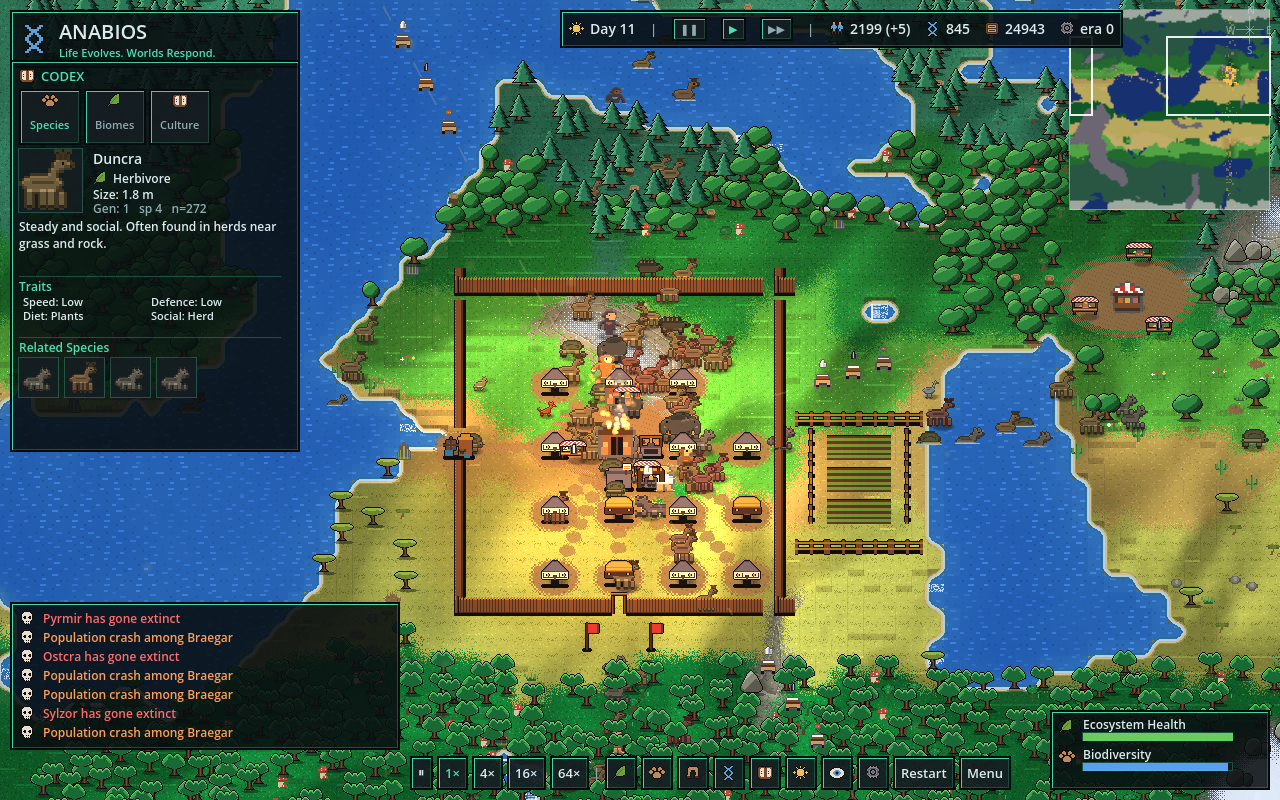
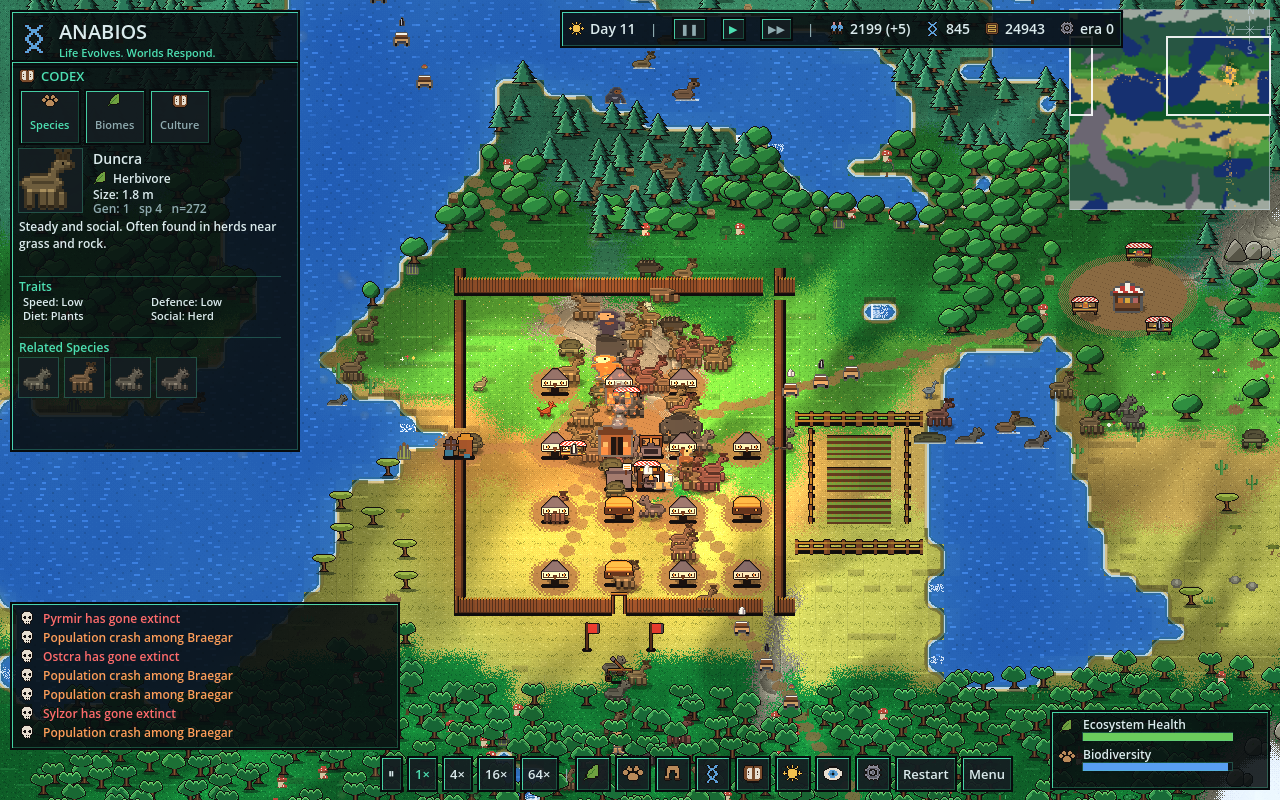
gallery: the fortified still shows the catapult at the gate
Claude-Session: https://claude.ai/code/session_019kbTtZKC2VJBPY6SALU64h

diff --git a/gallery/README.md b/gallery/README.md
@@ -43,7 +43,7 @@ pins an agent in the unit card.
 | File | Scenario / tick / zoom | What you're seeing |
 |---|---|---|
 | scale-settlement-t891-village-4x.png | `settlement` t891 4× (default camera, `ANABIOS_INSPECT=1`) | A camp on packed-earth yards with paths to the hearth, tents spaced a hut-width apart, the crowd capped to one figure per 17 units at 4× (12 at 2×, staggered rows), a market square with awning stalls beside it, pixel-puff hearth smoke, the outcrop east of the camp as warm stone, the unit card. |
-| scale-settlement-t891-fortified-2x.png | `settlement` t891 2× (`ANABIOS_VILLAGE_ERA=2 ANABIOS_VILLAGE_FLAGS=123`) | The same camp forced into its fortified era: timber-frame houses with slate roofs, a log palisade hugging them, a gate with banners to the south, a watchtower, fenced fields outside the wall, the forest standing back from the clearing. |
+| scale-settlement-t891-fortified-2x.png | `settlement` t891 2× (`ANABIOS_VILLAGE_ERA=2 ANABIOS_VILLAGE_FLAGS=123`) | The same camp forced into its fortified era: timber-frame houses with slate roofs, a log palisade hugging them, a gate with banners and a catapult to the south, a watchtower, fenced fields outside the wall, the forest standing back from the clearing. |
 | scale-settlement-t891-raided-4x.png | `settlement` t891 4× (`ANABIOS_VILLAGE_ERA=1 ANABIOS_VILLAGE_FLAGS=127`) | The same camp as a raided thatch village: burnt ruins with pixel flames and black smoke over them, the palisade, the fenced field. |
 | scale-settlement-t3120-camp-4x.png | `settlement` t3120 4× | The same camp later: hearth smoke, herds at the square, codex species page. |
 | scale-settlement-t1020-codex-species-2x.png | `settlement` t1020 2× (`ANABIOS_CODEX_TAB=1`) | The settlement peninsula: flat lake water with block ripples, dithered biome borders, mixed oak silhouettes, olive savanna, resting herds with their heads up, the HUD. |
